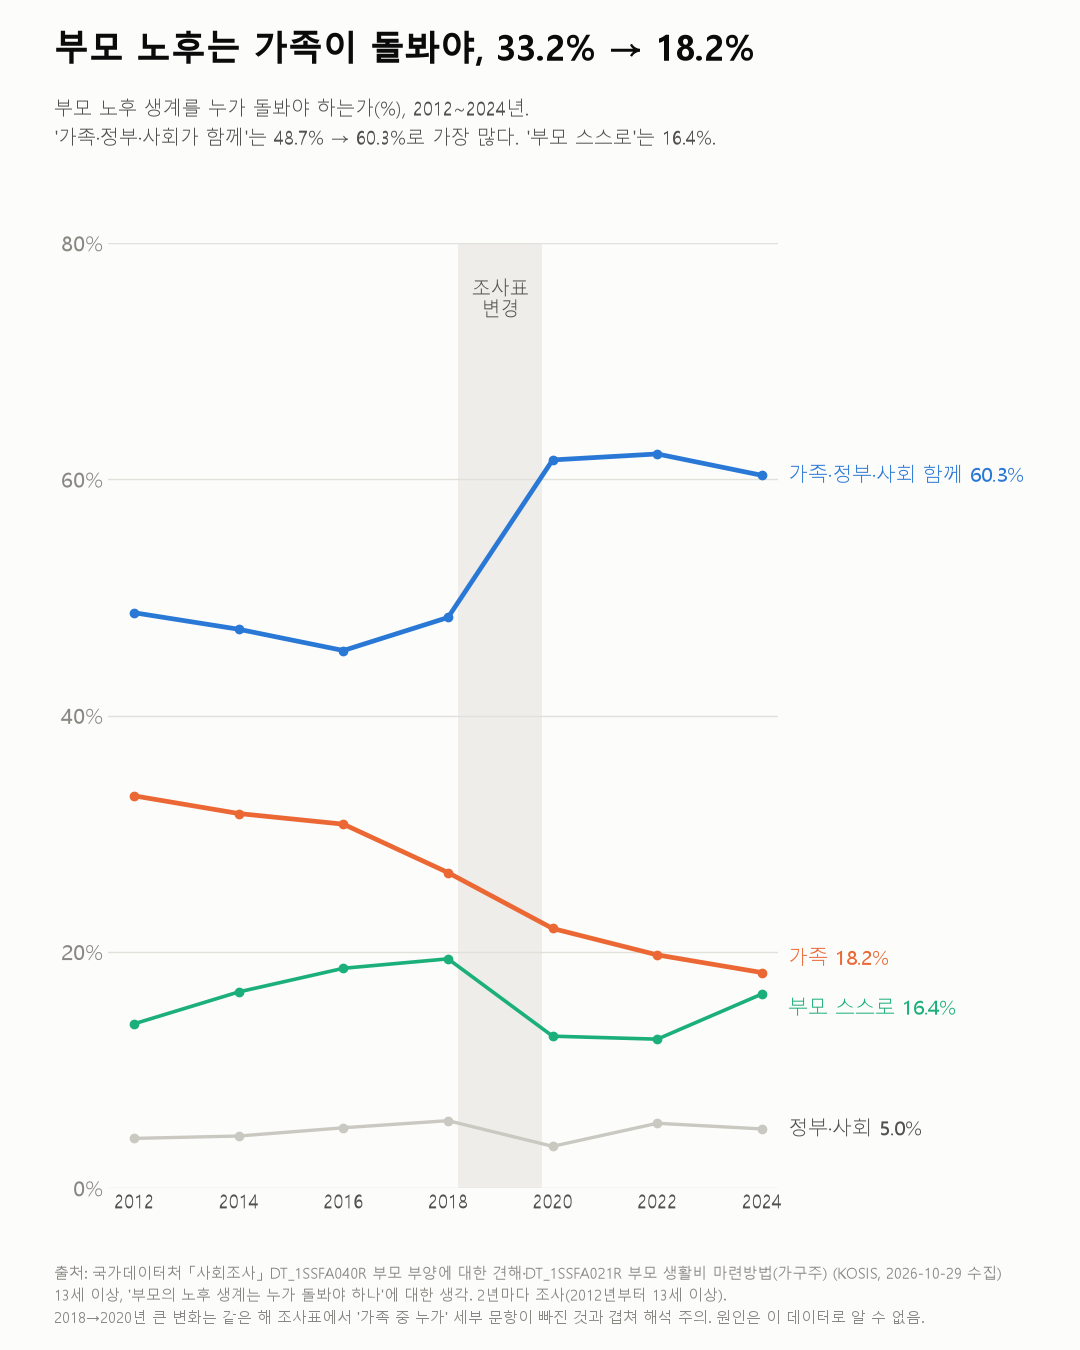
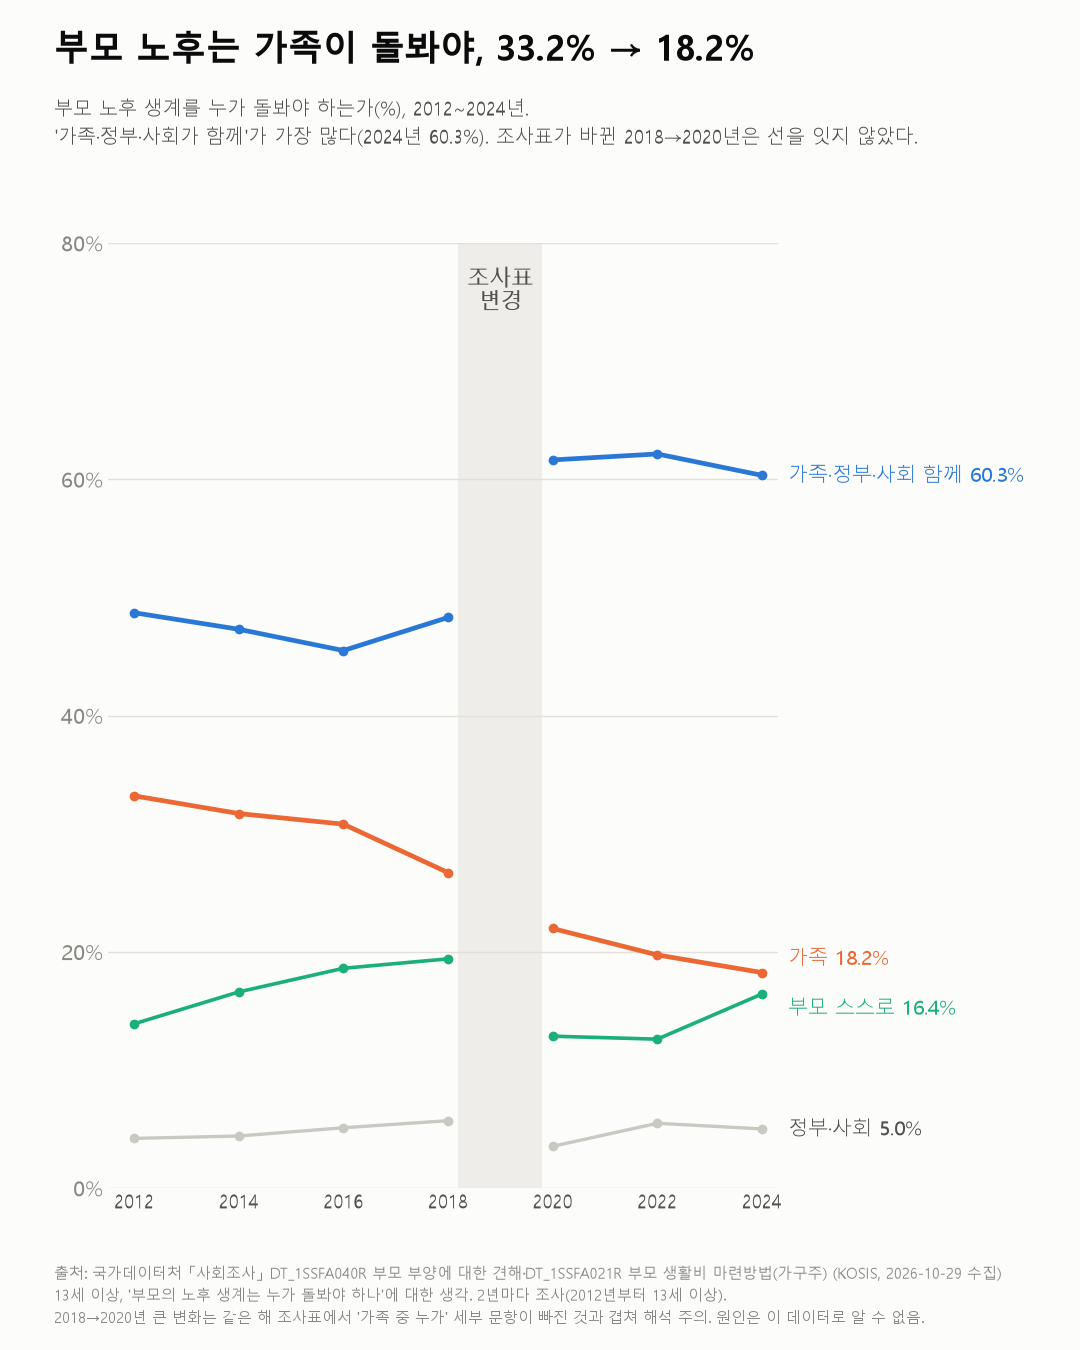
사이트 갱신

diff --git a/2026-10_parent-support/index.html b/2026-10_parent-support/index.html
@@ -62,8 +62,8 @@
 </section><section class="sec sec-meta"><h2>기준일</h2>
 <p>2012~2024년 짝수 해 조사.</p>
 </section><section class="sec"><h2>인사이트</h2>
-<p><strong>1. 부모 노후를 '가족'이 돌봐야 한다는 사람은 2012년 33.2%에서 2024년 18.2%로 줄었다.</strong> 조사 때마다 줄었다.</p>
-<p><strong>2. '가족·정부·사회가 함께'가 60.3%로 가장 많다.</strong> 2012년엔 48.7%였다(2018→2020년 조사표 변경 주의).</p>
+<p><strong>1. 부모 노후를 '가족'이 돌봐야 한다는 사람은 2012년 33.2%에서 2024년 18.2%로 줄었다.</strong> 조사표 변경 전(33.2→26.7%)과 후(22.0→18.2%) 모두 조사 때마다 줄었다.</p>
+<p><strong>2. '가족·정부·사회가 함께'가 60.3%로 가장 많다.</strong> 2012~2018년엔 45~49%, 조사표가 바뀐 2020년 이후엔 60~62%라 두 구간을 직접 잇지 않았다.</p>
 <p><strong>3. '부모 스스로 해결'은 16.4%, '정부·사회'는 5.0%다.</strong></p>
 <p><strong>4. 실제로는 부모 생활비의 71.8%를 부모 스스로 마련한다(2024년, 가구주 응답).</strong> 자녀 또는 친척이 24.0%, 정부·사회단체가 4.2%다.</p>
 <p><strong>5. 가구주가 나이 들수록 자녀가 마련하는 비율이 커진다.</strong> 가구주 30대는 부모 스스로 90.6%, 60세 이상은 자녀가 55.3%로 부모 스스로(36.2%)보다 많다.</p>
